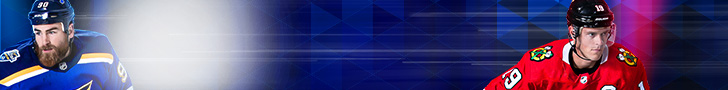
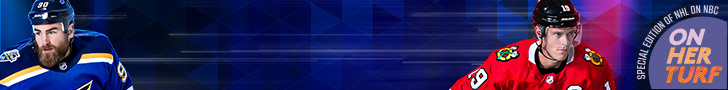
728 animation

diff --git a/030820_STL-CHI/html_css/728x90/index.html b/030820_STL-CHI/html_css/728x90/index.html
@@ -106,11 +106,11 @@
           .to($bg_light_color, 1.8, {opacity:.8}, "endframe")
           .to($bg_endframe, 0.5, {opacity:1}, "endframe")
           .to($tag, 0.25, {opacity:0}, "endframe")
-          .from($logo, 0.5, {scaleX:0, scaleY:0, opacity:0, ease: Power3.easeOut}, "endframe+=0.5")
-          .from($att, 0.5, {scaleX:0, scaleY:0, opacity:0, ease: Power3.easeOut}, "endframe+=0.5")
+          // .from($logo, 0.5, {scaleX:0, scaleY:0, opacity:0, ease: Power3.easeOut}, "endframe+=0.5")
 
-          .from($teams, 0.25, {yPercent:100, opacity:0}, "endframe+=0.75")
-          .from($tunein, 0.25, {yPercent:-100, opacity:0}, "endframe+=0.75");
+          .from($teams, 0.25, {yPercent:100, opacity:0}, "endframe+=0.5")
+          .from($tunein, 0.25, {yPercent:-100, opacity:0}, "endframe+=0.5")
+          .from($att, 0.5, {scaleX:0, scaleY:0, opacity:0, ease: Power3.easeOut}, "endframe+=0.75");
 
     });
     </script>

diff --git a/030820_STL-CHI/html_css/728x90/style.css b/030820_STL-CHI/html_css/728x90/style.css
@@ -82,10 +82,10 @@ body{
 
 #logo{
 	position: absolute;
-	left: 80px;
-	top: 18px;
-	width: 167px;
-	height: 55px;
+	left: 637px;
+	top: 5px;
+	width: 90px;
+	height: 84px;
 	background: url(images/logo.png) no-repeat;
 }
 
@@ -127,7 +127,7 @@ body{
 
 #mask3{
 	position: absolute;
-	left: 266px;
+	left: 131px;
 	top: 18px;
 	width: 263px;
 	height: 25px;
@@ -145,7 +145,7 @@ body{
 
 #mask4{
 	position: absolute;
-	left: 266px;
+	left: 150px;
 	top: 50px;
 	width: 224px;
 	height: 26px;
@@ -163,7 +163,7 @@ body{
 
 #att{
 	position: absolute;
-	left: 671px;
+	left: 415px;
 	top: 19px;
 	width: 42px;
 	height: 53px;
